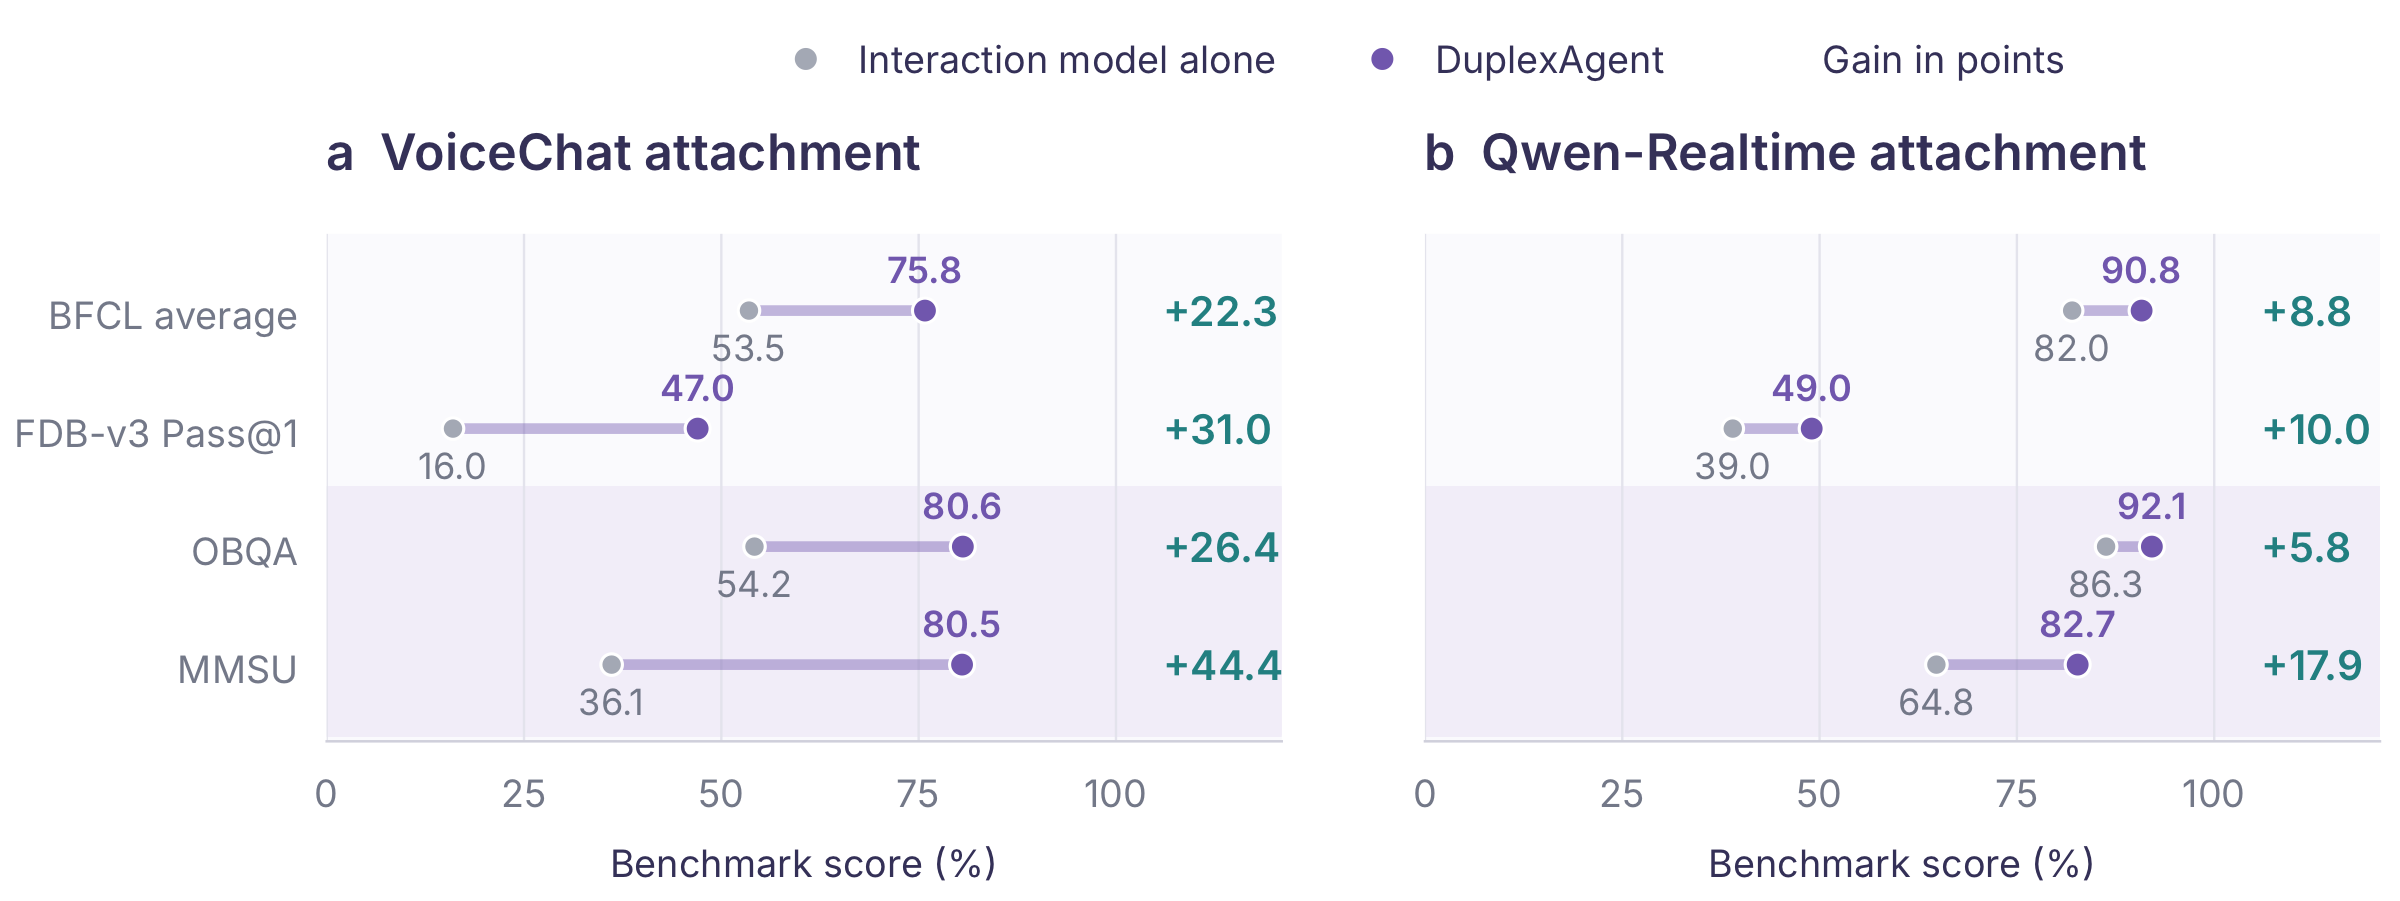
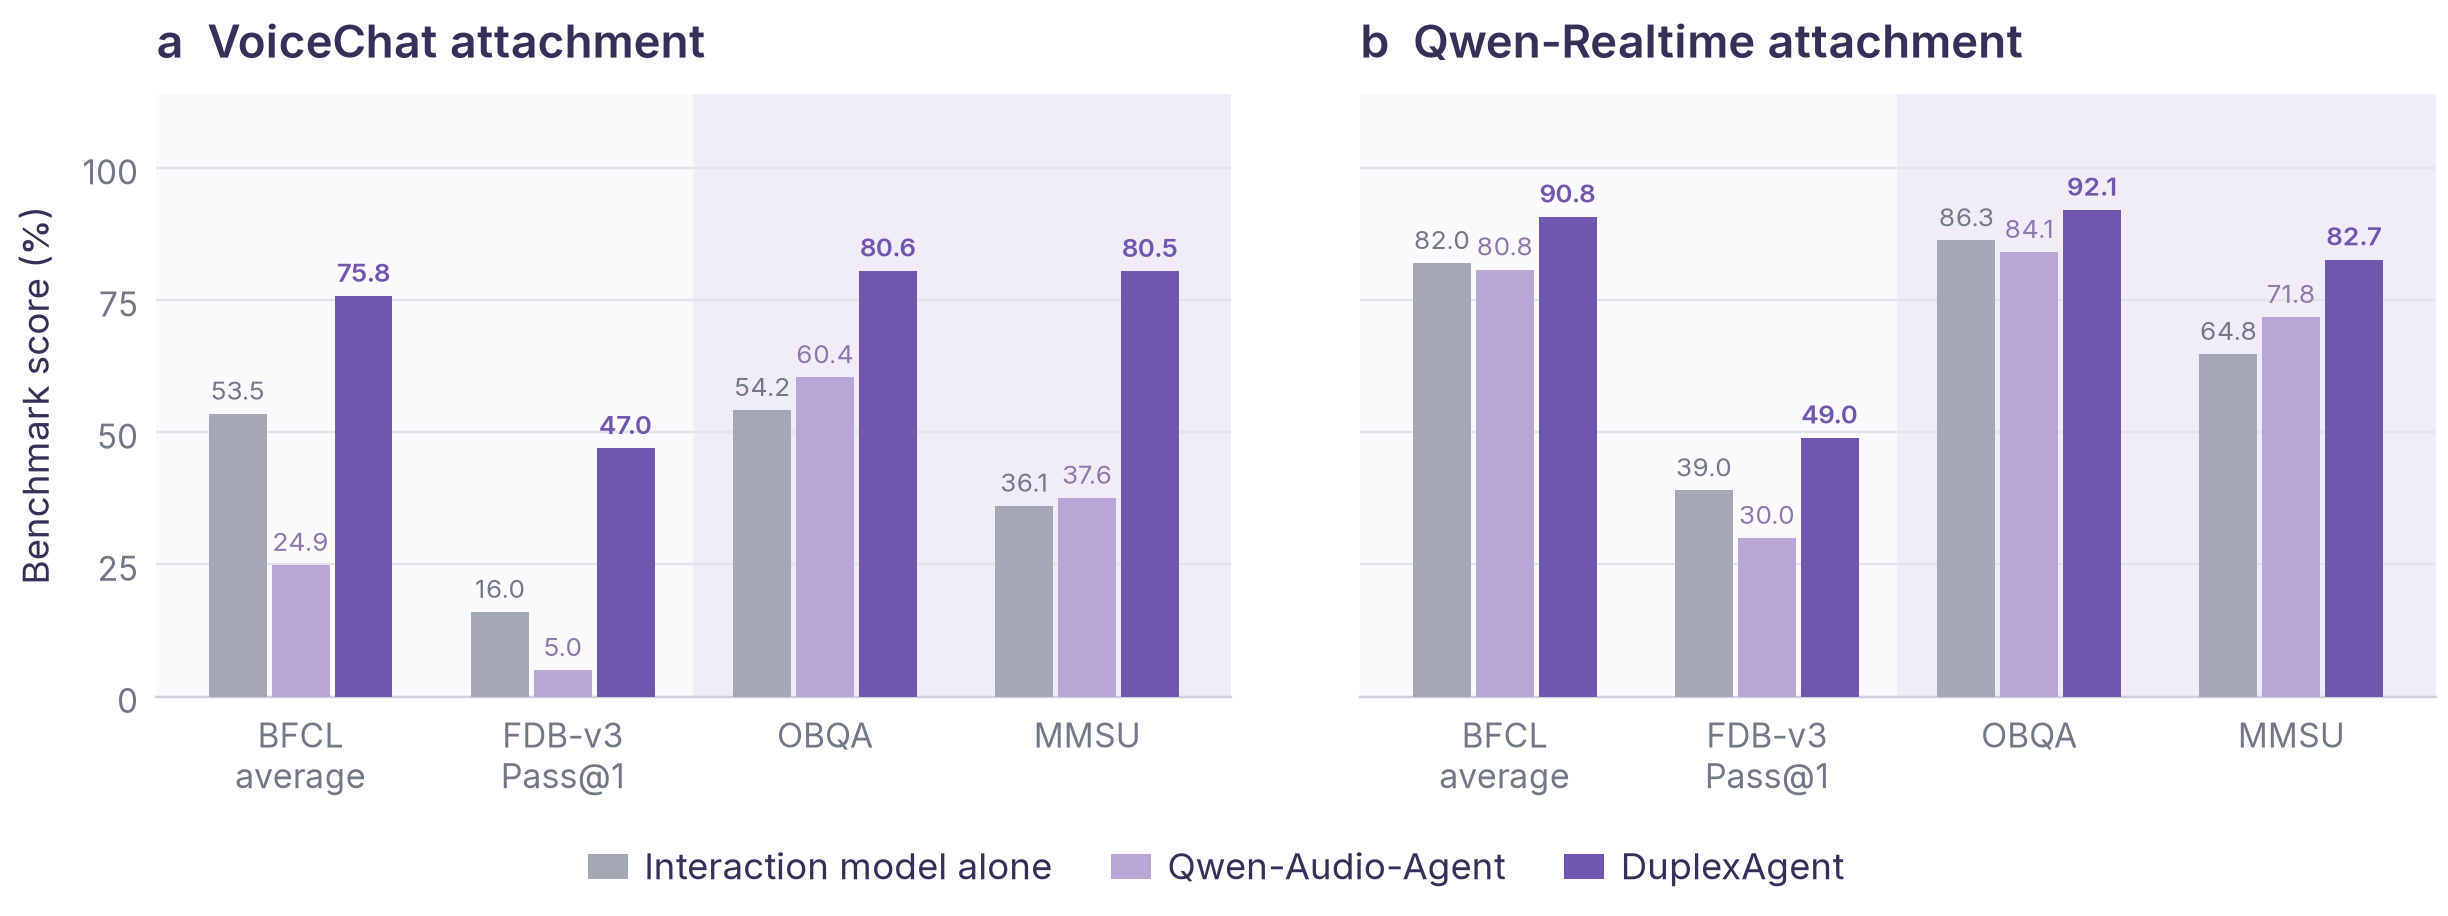
Sync the project-page figures with the updated tech report.
The attachment-gains chart is now a three-way bar comparison, and the other result figures match the current report files.

diff --git a/projects/duplexagent/index.html b/projects/duplexagent/index.html
@@ -195,8 +195,8 @@
           <p>A background model can write a better spoken answer and still lose the benchmark function call, if the harness replaces that call with a title or a sentence. DuplexAgent keeps the routing decision separate from the content of the handoff. Direct questions stay on the interaction model. Tool requests leave as executable calls, with the arguments Memory kept from the user turn.</p>
         </div>
         <figure class="figure">
-          <img src="assets/gains.png" alt="Dumbbell chart comparing each interaction model alone with DuplexAgent. VoiceChat gains 22.3 BFCL, 31.0 FDB-v3 Pass at 1, 26.4 OBQA, and 44.4 MMSU. Qwen-Realtime gains 8.8 BFCL, 10.0 FDB-v3 Pass at 1, 5.8 OBQA, and 17.9 MMSU.">
-          <figcaption><strong>Gains over the matching interaction model.</strong> Grey is the model alone. Purple is DuplexAgent. The same attachment improves spoken knowledge and executable tool use.</figcaption>
+          <img src="assets/gains.png" alt="Grouped bar charts for VoiceChat and Qwen-Realtime. On each attachment, grey is the interaction model alone, lavender is Qwen-Audio-Agent, and purple is DuplexAgent, on BFCL average, FDB-v3 Pass at 1, OBQA, and MMSU.">
+          <figcaption><strong>DuplexAgent above the matching interaction model and Qwen-Audio-Agent.</strong> Grey is the model alone. Lavender is Qwen-Audio-Agent. Purple is DuplexAgent.</figcaption>
         </figure>
         <figure class="figure" style="margin-top:14px">
           <img src="assets/leaderboard.png" alt="Four bar charts of delegated systems. DuplexAgent leads MMSU at 82.7, BFCL parallel-multiple at 78.0, FDB-v3 Pass at 1 at 49.0, and FDB-v1 interrupt takeover at 97.0.">
@@ -216,7 +216,7 @@
         </div>
         <figure class="figure">
           <img src="assets/rsi-voicechat.png" alt="VoiceChat ablation. Collaboration score rises from 54.6 for the initial harness to 57.4 for one-shot editing, 61.9 for sequential editing, and 85.3 for RSI. A heatmap shows missed delegation falling from 30.3 percent to 1.3 percent.">
-          <figcaption><strong>VoiceChat, same 76-item core.</strong> One-shot pools the exams. Sequential editing replays them. RSI uses each round’s attributed failures and the archive of earlier repairs.</figcaption>
+          <figcaption><strong>VoiceChat, same 76-item core.</strong> One-shot pools the exams. Sequential editing replays them. Duplex-Harness-RSI uses each round’s diagnosis and the repair archive.</figcaption>
         </figure>
         <figure class="figure" style="margin-top:14px">
           <img src="assets/rsi-qwen.png" alt="Line chart of Qwen-Realtime harness improvement. The best retained score climbs from 47.1 at g0 to 84.8 at g8 across 18 rounds, with a dashed core-evaluation line that sometimes dips between retained revisions.">
